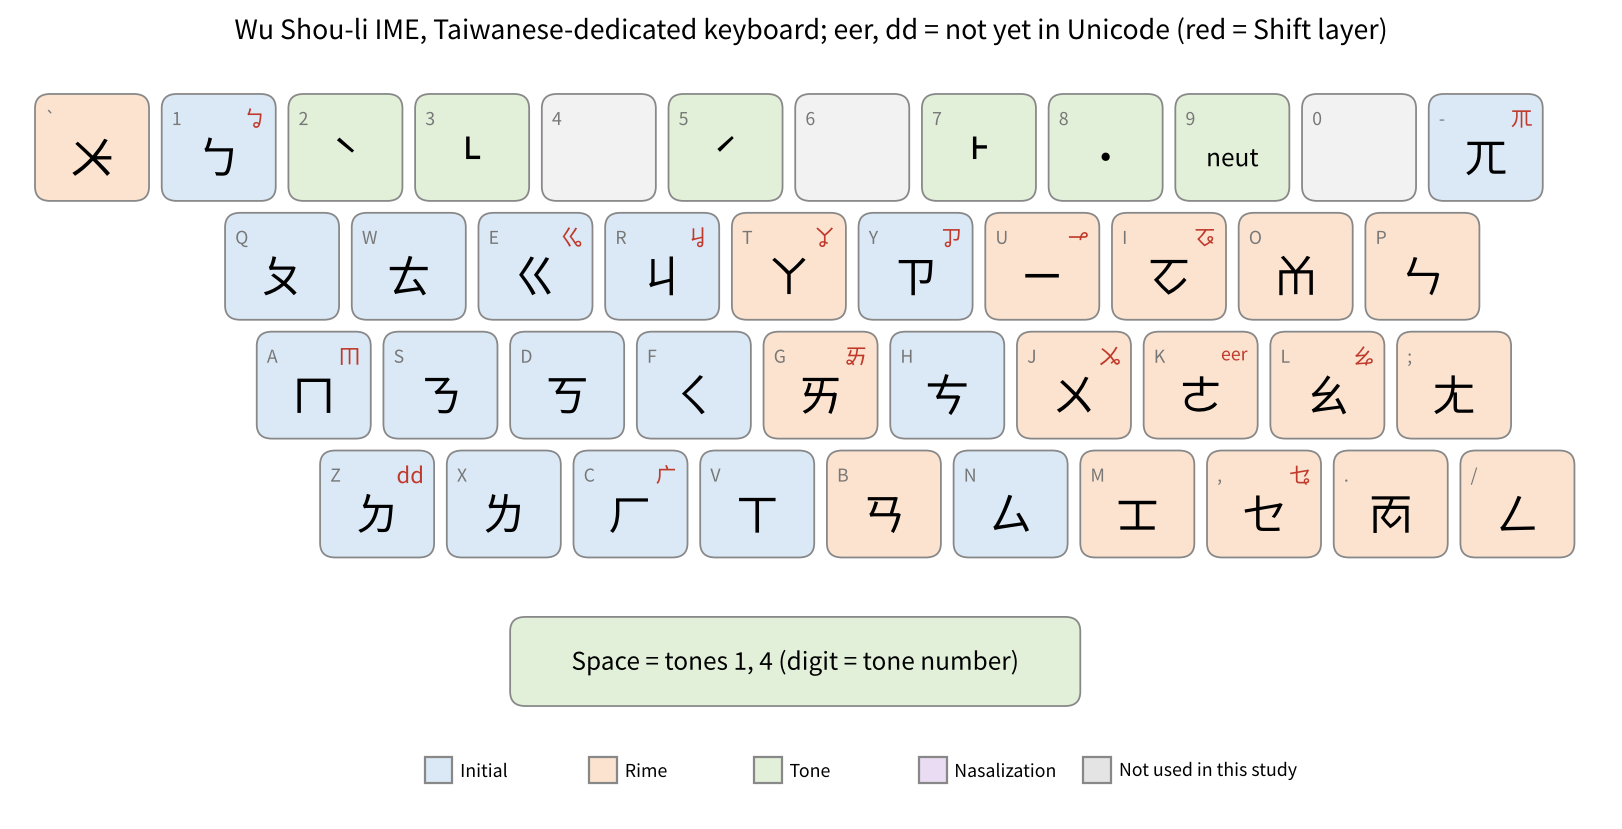
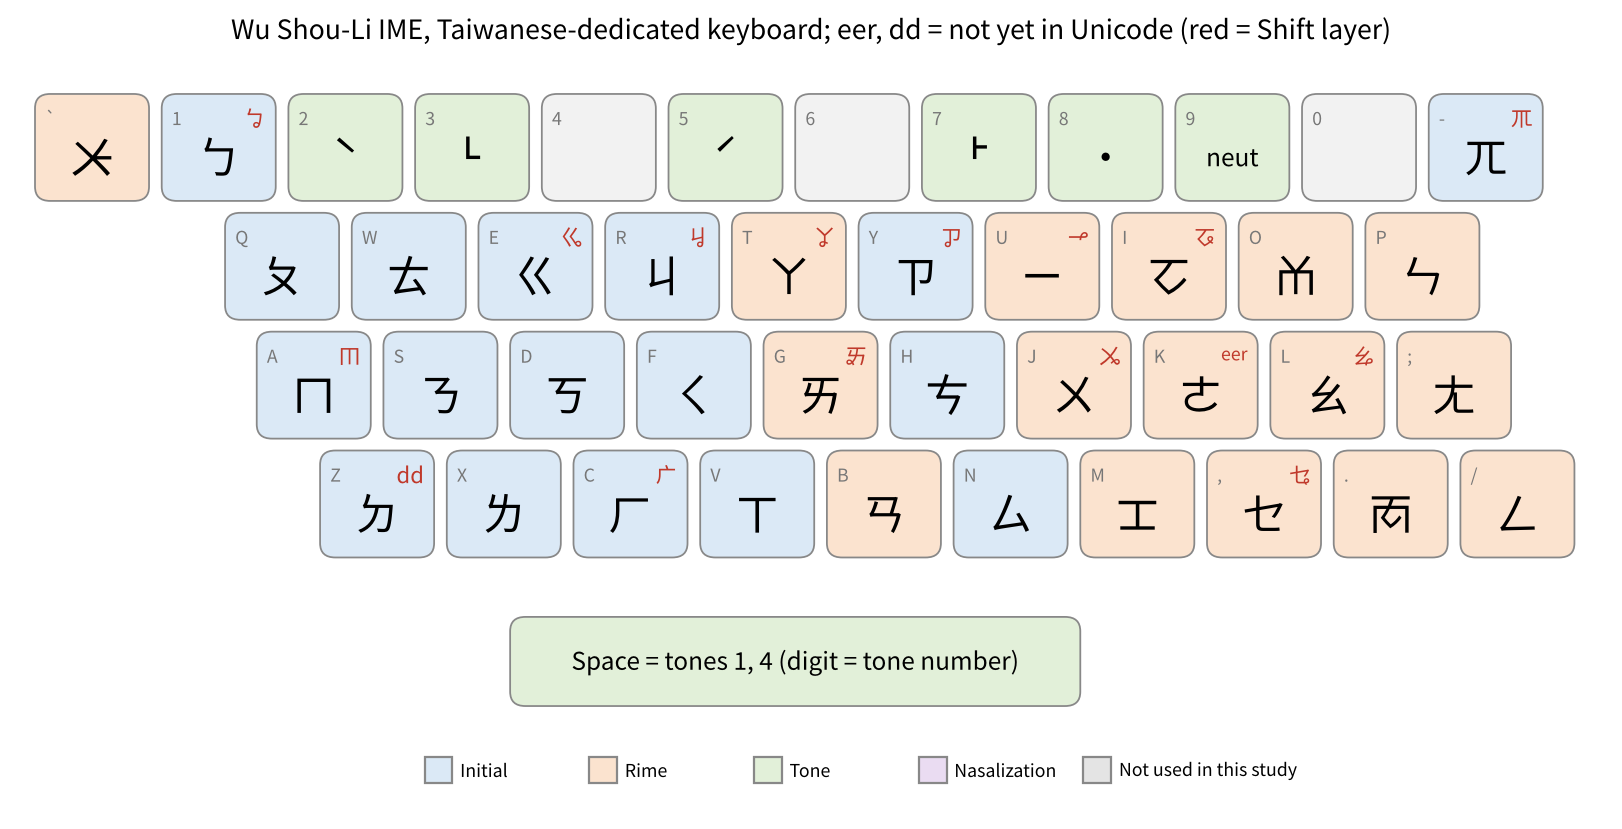
Capitalize both parts of hyphenated Chinese given names (Wu Shou-Li)
Claude-Session: https://claude.ai/code/session_01NAaUPmCiocEBpHhsM43Wwq

Changed region(s): [[0.1233, 0.0, 0.8631, 0.0603]]

diff --git a/figures_existing.py b/figures_existing.py
@@ -57,7 +57,7 @@ WSL={'1':('ㄅ','ㆠ'),'2':('ˋ',''),'3':('˪',''),'4':('',''),'5':('ˊ',''),'6'
 'a':('ㄇ','ㆬ'),'s':('ㄋ',''),'d':('ㄎ',''),'f':('ㄑ',''),'g':('ㄞ','ㆮ'),'h':('ㄘ',''),'j':('ㄨ','ㆫ'),'k':('ㄜ','eer'),'l':('ㄠ','ㆯ'),';':('ㄤ',''),
 'z':('ㄉ','dd'),'x':('ㄌ',''),'c':('ㄏ','ㄬ'),'v':('ㄒ',''),'b':('ㄢ',''),'n':('ㄙ',''),'m':('ㆲ',''),',':('ㆤ','ㆥ'),'.':('ㆱ',''),'/':('ㄥ','')}
 g=grid(WSL); g[0]=[('`','ㆨ','')]+g[0]
-draw(g,[0,1.5,1.75,2.25],'ex_WSL.png','Wu Shou-li IME, Taiwanese-dedicated keyboard; eer, dd = not yet in Unicode',space='Space = tones 1, 4 (digit = tone number)',space_x=3.8)
+draw(g,[0,1.5,1.75,2.25],'ex_WSL.png','Wu Shou-Li IME, Taiwanese-dedicated keyboard; eer, dd = not yet in Unicode',space='Space = tones 1, 4 (digit = tone number)',space_x=3.8)
 AR=[[('1','ㆠ',''),('2','ˋ',''),('3','˪',''),('4','ㆣ',''),('5','ˊ',''),('6','ˇ',''),('7','˫',''),('8','˙',''),('9','ㆪ',''),('0','ㆩ','')],
 [('','ㄅ','ㆴ'),('','ㄉ','ㆵ'),('','ㄍ','ㆻ'),('','ㄏ','ㆷ'),('','ㄧ',''),('','ㄚ',''),('','ㄞ',''),('','ㄤ',''),('','ㆫ',''),('','ㆧ','')],
 [('','ㄆ',''),('','ㄊ',''),('','ㄎ',''),('','ㄗ','ㄐ'),('','ㄨ',''),('','ㄛ',''),('','ㄠ',''),('','ㆲ',''),('','ㆥ',''),('','ㆮ','ㆯ')],
@@ -65,11 +65,11 @@ AR=[[('1','ㆠ',''),('2','ˋ',''),('3','˪',''),('4','ㆣ',''),('5','ˊ',''),('6
 [('','ㄌ',''),('','ㆡ','ㆢ'),('','ㄙ','ㄒ'),('','ㆨ',''),('','ㆤ','ㄝ')]]
 draw(AR,[0,0,0,0,1.2],'ex_AND.png','Taigi Keyboard (Android)',second='long press; digits on long press in the top row',space='Space = tones 1 and 4',space_x=5.0)
 
-# Wu Shou-li IME, Mandarin-extended keyboard (Academia Sinica, 2012b): Taiwanese tones on F1-F9
+# Wu Shou-Li IME, Mandarin-extended keyboard (Academia Sinica, 2012b): Taiwanese tones on F1-F9
 HUA=[[('F1','t1',''),('F2','ˋ',''),('F3','˪',''),('F4','t4',''),('F5','ˊ',''),('F6','ˇ',''),('F7','˫',''),('F8','˙',''),('F9','ˆ','')],
  [('`','ㆨ',''),('1','ㄅ','ㆠ'),('2','ㄉ','dd'),('3','ˇ',''),('4','ˋ',''),('5','ㄓ',''),('6','ˊ',''),('7','˙',''),('8','ㄚ','ㆩ'),('9','ㄞ','ㆮ'),('0','ㄢ',''),('-','ㄦ',''),('=','ㆦ','ㆧ'),('\\','ㄫ','ㆭ')],
  [('Q','ㄆ',''),('W','ㄊ',''),('E','ㄍ','ㆣ'),('R','ㄐ','ㆢ'),('T','ㄔ',''),('Y','ㄗ','ㆡ'),('U','ㄧ','ㆪ'),('I','ㄛ',''),('O','ㄟ',''),('P','ㄣ',''),('[','ㆰ',''),(']','ㆱ','')],
  [('A','ㄇ','ㆬ'),('S','ㄋ',''),('D','ㄎ',''),('F','ㄑ',''),('G','ㄕ',''),('H','ㄘ',''),('J','ㄨ','ㆫ'),('K','ㄜ','eer'),('L','ㄠ','ㆯ'),(';','ㄤ',''),("'",'ㆲ','')],
  [('Z','ㄈ',''),('X','ㄌ',''),('C','ㄏ','ㄬ'),('V','ㄒ',''),('B','ㄖ',''),('N','ㄙ',''),('M','ㄩ',''),(',','ㆤ','ㆥ'),('.','ㄡ',''),('/','ㄥ','')]]
-draw(HUA,[1.0,0,1.5,1.75,2.25],'ex_WSL_HUA.png','Wu Shou-li IME, Mandarin-extended keyboard; Taiwanese tones on F1-F9',
+draw(HUA,[1.0,0,1.5,1.75,2.25],'ex_WSL_HUA.png','Wu Shou-Li IME, Mandarin-extended keyboard; Taiwanese tones on F1-F9',
      space='Space = tones 1 and 4',space_x=4.5,grey={'3','4','5','6','7','-','T','I','O','G','Z','B','M','.'})

diff --git a/layouts.py b/layouts.py
@@ -7,9 +7,9 @@ def L(d):
     return out
 TPS=L({'ㄅ':'1','ㄉ':'2','˪':'3','ˋ':'4','˫':'5','ˊ':'6','˙':'7','ㄚ':'8','ㄞ':'9','ㄢ':'0','N':'-','ㄆ':'q','ㄊ':'w','ㄍ':'e','ㄐ':'r','ㆣ':'t','ㄗ':'y','ㄧ':'u','ㆦ':'i','ㆤ':'o','ㄣ':'p','ㄇ':'a','ㄋ':'s','ㄎ':'d','ㄑ':'f','ㄫ':'g','ㄘ':'h','ㄨ':'j','ㄜ':'k','ㄠ':'l','ㄤ':';','ㆠ':'z','ㄌ':'x','ㄏ':'c','ㄒ':'v','ㆡ':'b','ㆢ':'b','ㄙ':'n','ㆬ':'m','ㆰ':',','ㆱ':',','ㆲ':'.','ㆭ':'/','ㄥ':'/','ㆴ':'1','ㆵ':'2','ㆻ':'e','ㆷ':'c'})
 TKW=L({'ㄅ':'1','ㆠ':'1S','ㄉ':'2','˪':'3','ˇ':'3S','ˋ':'4','˫':'5','ˊ':'6','ˆ':'6S','˙':'7','ㄚ':'8','ㆩ':'8S','ㄞ':'9','ㆮ':'9S','ㄢ':'0','ㆰ':'0S','ㆲ':'-','ㆱ':'-S','ㄆ':'q','ㄊ':'w','ㄍ':'e','ㆣ':'eS','ㄐ':'r','ㆢ':'rS','ㆴ':'t','ㄗ':'y','ㆡ':'yS','ㄧ':'u','ㆪ':'uS','ㆤ':'o','ㆥ':'oS','ㄣ':'p','ㆬ':'pS','ㄇ':'a','ㄋ':'s','ㄎ':'d','ㄫ':'dS','ㄑ':'f','ㆵ':'g','ㄘ':'h','ㄨ':'j','ㆫ':'jS','ㄜ':'k','ㄠ':'l','ㆯ':'lS','ㄤ':';','ㆷ':'z','ㄌ':'x','ㄏ':'c','ㄒ':'v','ㆻ':'b','ㄙ':'n','ㆦ':'.','ㆧ':'.S','ㄥ':'/','ㆭ':'/S'})
-# Wu Shou-li Taiwanese Zhuyin IME, Taiwanese-dedicated keyboard (Academia Sinica, 2012)
+# Wu Shou-Li Taiwanese Zhuyin IME, Taiwanese-dedicated keyboard (Academia Sinica, 2012)
 WSL=L({"ㄅ": "1", "ㆠ": "1S", "˪": "3", "ˋ": "2", "ˊ": "5", "˫": "7", "˙": "8", "ˆ": "9", "ㄫ": "-", "ㆭ": "-S", "ㄆ": "q", "ㄊ": "w", "ㄍ": "e", "ㆣ": "eS", "ㄐ": "r", "ㆢ": "rS", "ㄚ": "t", "ㆩ": "tS", "ㄗ": "y", "ㆡ": "yS", "ㄧ": "u", "ㆪ": "uS", "ㆦ": "i", "ㆧ": "iS", "ㆰ": "o", "ㄣ": "p", "ㄇ": "a", "ㆬ": "aS", "ㄋ": "s", "ㄎ": "d", "ㄑ": "f", "ㄞ": "g", "ㆮ": "gS", "ㄘ": "h", "ㄨ": "j", "ㆫ": "jS", "ㄜ": "k", "ㄠ": "l", "ㆯ": "lS", "ㄤ": ";", "ㄉ": "z", "ㄌ": "x", "ㄏ": "c", "ㄒ": "v", "ㄢ": "b", "ㄙ": "n", "ㆲ": "m", "ㆤ": ",", "ㆥ": ",S", "ㆱ": ".", "ㄥ": "/", "ㆴ": "1", "ㆵ": "z", "ㆻ": "e", "ㆷ": "c"})
-# Wu Shou-li Taiwanese Zhuyin IME, Mandarin-extended keyboard (Academia Sinica, 2012b).
+# Wu Shou-Li Taiwanese Zhuyin IME, Mandarin-extended keyboard (Academia Sinica, 2012b).
 # Keeps 36 of the 37 Mandarin Zhuyin keys; Taiwanese tones on F1-F9; desktop only.
 WSL_HUA=L({'ㄅ':'1','ㆠ':'1S','ㄆ':'q','ㄇ':'a','ㆬ':'aS','ㄉ':'2','ㄊ':'w','ㄋ':'s','ㄌ':'x','ㄍ':'e','ㆣ':'eS','ㄎ':'d','ㄏ':'c',
  'ㄐ':'r','ㆢ':'rS','ㄑ':'f','ㄒ':'v','ㄗ':'y','ㆡ':'yS','ㄘ':'h','ㄙ':'n','ㄧ':'u','ㆪ':'uS','ㄨ':'j','ㆫ':'jS',

diff --git a/evaluate.py b/evaluate.py
@@ -65,9 +65,9 @@ if __name__ == '__main__':
     ref = model.evaluate(layouts.TPS, allo=True, tps_ent=True)
     and_lay, and_pos = layouts.android(False)
     rows = [('Taigi-TPS', layouts.TPS, None, dict(allo=True, tps_ent=True)),
-            ('Wu Shou-li (Taiwanese-dedicated)', layouts.WSL, None, dict(allo=True, precomp=True)),
+            ('Wu Shou-Li (Taiwanese-dedicated)', layouts.WSL, None, dict(allo=True, precomp=True)),
             ('Taigi Keyboard (Windows)', layouts.TKW, None, dict(allo=True, precomp=True)),
-            ('Wu Shou-li (Mandarin-extended)', layouts.WSL_HUA, 'desktop', dict(allo=True, precomp=True)),
+            ('Wu Shou-Li (Mandarin-extended)', layouts.WSL_HUA, 'desktop', dict(allo=True, precomp=True)),
             ('Taigi Keyboard (Android)', and_lay, and_pos, dict(allo=True, precomp=True)),
             ('Layout A (Dachien-preserving)', full(prop['A']), None, {}),
             ('Layout B (hand-split)', full(prop['B']), None, {}),

diff --git a/model.py b/model.py
@@ -50,7 +50,7 @@ eff_rows=[[4.0,3.5,3.0,3.0,3.5,4.0,3.0,3.0,3.5,4.0,4.5],[2.5,1.8,1.3,1.3,2.0,2.3
 for ri,r in enumerate(ROWS):
     for i,c in enumerate(r): EFF[c]=eff_rows[ri][i]
 EFF['SP']=0.6;FINGER['SP']=5;ROW['SP']=4
-# Keys outside the 41-key grid, used only by desktop-only layouts (Wu Shou-li Mandarin-extended keyboard).
+# Keys outside the 41-key grid, used only by desktop-only layouts (Wu Shou-Li Mandarin-extended keyboard).
 # Row -1 = function-key row. Efforts extrapolate the grid: farther and pinky-heavier keys cost more.
 EXTRA={'`':(4.5,0,0),'=':(5.0,9,0),'[':(3.0,9,1),']':(3.5,9,1),'\\':(5.5,9,0),"'":(2.0,9,2),
        'F1':(5.5,0,-1),'F2':(5.0,1,-1),'F3':(5.0,2,-1),'F4':(5.0,3,-1),'F5':(5.0,6,-1),

diff --git a/README.md b/README.md
@@ -33,9 +33,9 @@ Expected output of step 4 (composite score: Taigi-TPS = 100, lower is better). T
 | Layout | Desktop cost | Phone (s/syllable) | Keys/syllable | Shift or long press | Composite |
 | --- | --- | --- | --- | --- | --- |
 | Taigi-TPS | 8.06 | 1.208 | 3.22 | 0.0% | 100.0 |
-| Wu Shou-li (Taiwanese-dedicated) | 7.69 | 1.274 | 3.50 | 19.1% | 100.4 |
+| Wu Shou-Li (Taiwanese-dedicated) | 7.69 | 1.274 | 3.50 | 19.1% | 100.4 |
 | Taigi Keyboard (Windows) | 8.22 | 1.295 | 3.52 | 20.5% | 104.6 |
-| Wu Shou-li (Mandarin-extended, desktop only) | 9.85 | — | 3.50 | 19.1% | — |
+| Wu Shou-Li (Mandarin-extended, desktop only) | 9.85 | — | 3.50 | 19.1% | — |
 | Taigi Keyboard (Android) | — | 1.402 | 3.74 | 36.7% | — |
 | Layout A (Dachien-preserving) | 7.19 | 1.199 | 3.37 | 0.0% | 94.3 |
 | Layout B (hand-split) | 4.26 | 1.041 | 3.37 | 0.0% | 69.5 |
@@ -51,7 +51,7 @@ Expected output of step 4 (composite score: Taigi-TPS = 100, lower is better). T
 | `extract.py` | Extracts and parses Tâi-lô syllables from the dictionary example sentences |
 | `units.py` | Tâi-lô to TPS keystroke-unit conversion |
 | `model.py` | Key grid, desktop cost and mobile (Fitts' law) cost model |
-| `layouts.py` | Existing layouts: Taigi-TPS, Wu Shou-li (Taiwanese-dedicated and Mandarin-extended), Taigi Keyboard (Windows, Android) |
+| `layouts.py` | Existing layouts: Taigi-TPS, Wu Shou-Li (Taiwanese-dedicated and Mandarin-extended), Taigi Keyboard (Windows, Android) |
 | `opt.py` | Simulated-annealing search for one configuration and seed |
 | `optimize_all.py` | Runs all configurations and seeds |
 | `evaluate.py` | Builds Layout C and scores all layouts |
